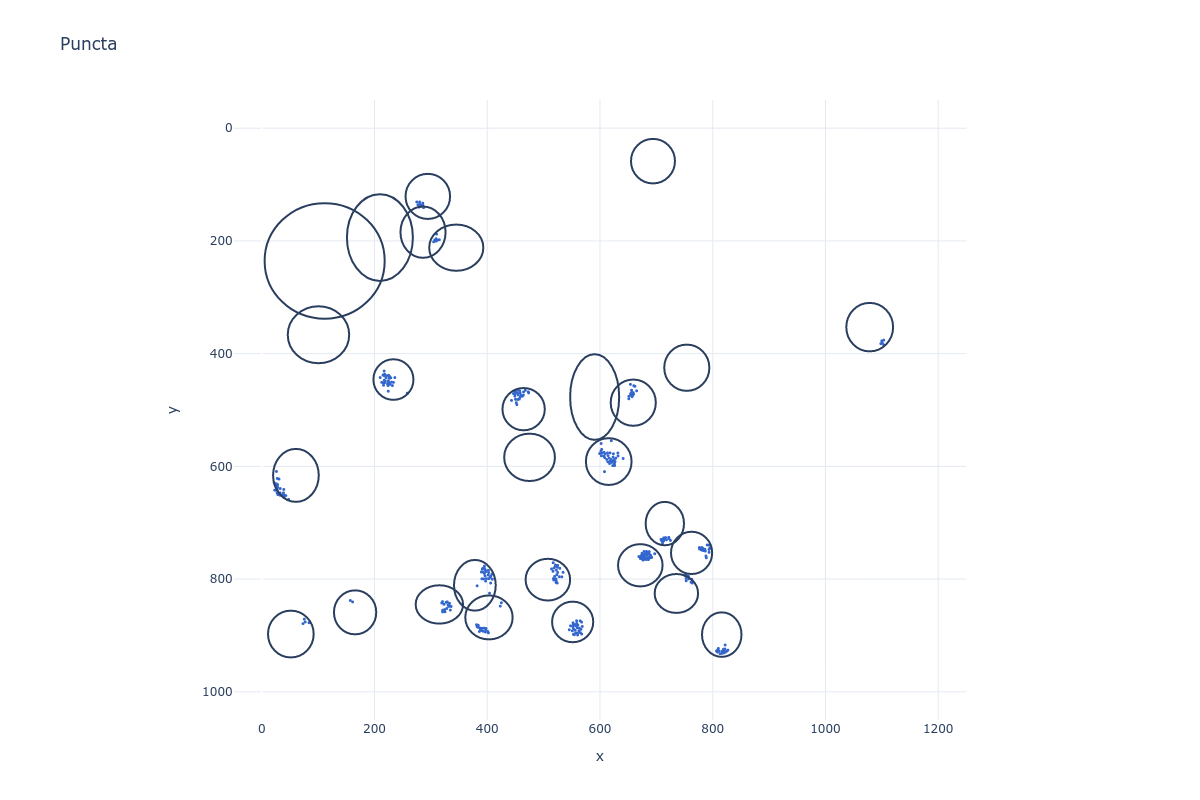
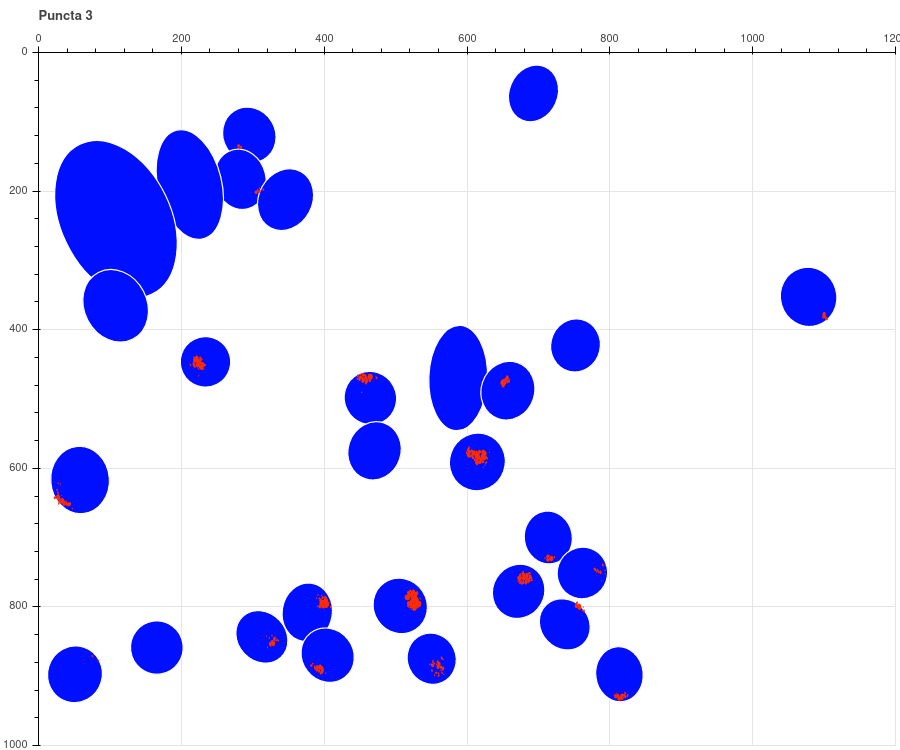
export bokeh figures by downloading geckodriver

diff --git a/README.md b/README.md
@@ -28,3 +28,13 @@ I envision that this repo will have three modules.
 
    In this way, it makes it easy for a user to scroll through a repository and identify if a cell was misclassified.
 
+
+
+## Miscellaneous Notes
+
+To save Bokeh figures, you must install geckodriver:
+
+```
+sudo apt-get install firefox-geckodriver
+```
+
